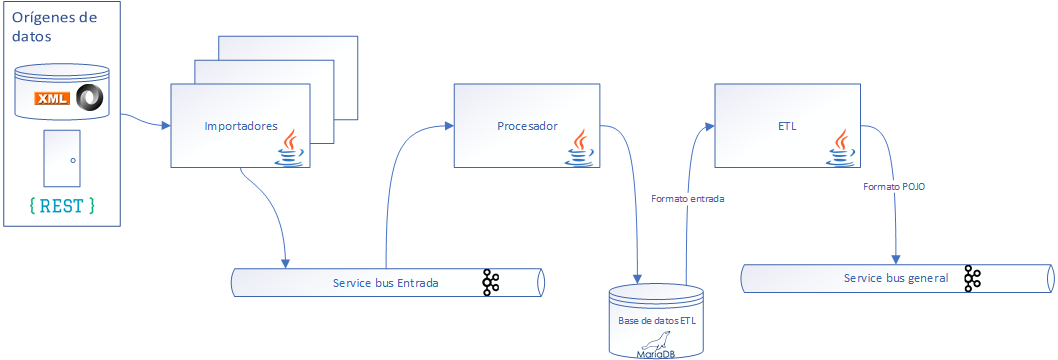
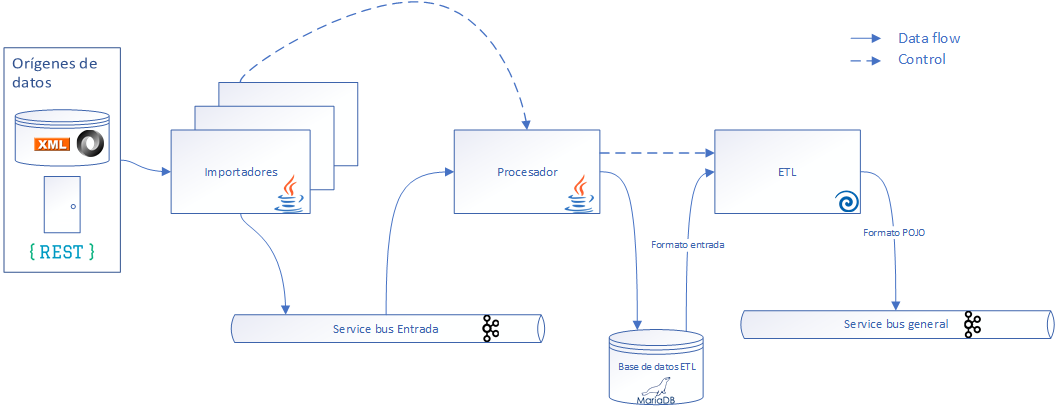
Actualización documento arquitectura

diff --git a/arquitectura_semantica/documento_arquitectura/anexos/anexo-ASIO_Izertis_Arquitectura_hito1.md b/arquitectura_semantica/documento_arquitectura/anexos/anexo-ASIO_Izertis_Arquitectura_hito1.md
@@ -1,0 +1,62 @@
+![](../images/logos_feder.png)
+
+# Anexo - Arquitectura hito 1
+
+En el presente documento se hará una comparativa entre la arquitectura planificada y la arquitectura implementada para este primer hito. Se hará un repaso por los diferentes bloques.
+
+## Arquitectura backend
+
+La arquitectura del backend se mantiene en lineas generales con la planificada.
+
+![Arquitectura backend alto nivel](./images/backend.png)
+
+Haciendo un repaso, los pasos que se seguiría serían los siguientes:
+
+1. Existen n importadores de datos, uno por cada origen de datos, estos importadores se encargarán de leer la información del lugar en el que se encuentran los datos e insertarla en el sistema
+2. La información pasará al topic de Kafka denominado *service bus general* para que sea procesada mediante una técnica de streaming
+3. El sistema de gestión se encargará de procesar la información, transformarla en RDF y enviarla a la gestión de eventos
+4. La gestión de eventos será la responsable de enviar los datos a aquellos sistemas de persistencia que se hayan seleccionado, inicialmente Trellis y Wikbase
+
+Como se comentaba anteriormente, esta arquitectura se sigue manteniendo.
+
+## Arquitectura entrada de datos
+
+La entrada de datos se mantiene en líneas generales pero se han hecho pequeños ajustes de cara a este primer hito.
+
+![Arquitectura entrada de datos planifiada](./images/input.png)
+
+En la planificación se había establecido el siguiente flujo:
+
+1. Los importadores se encargarán de leer los datos el origen e inserarlo en el topic de Kafka denominado "Service bus de entrada"
+    * Harán uso de un endpoint del procesador para obtener la fecha de la última carga para saber desde qué momento de tiempo es preciso obtener los datos
+2. El procesador se encargará de obtener la información del topic de Kafka mencionado en el punto anterior e insertarlo en una base de datos intermedia
+3. Una vez terminada la importación, el procesador avisará al proceso ETL para que comience con la transformación
+4. El proceso de ETL insertará los datos en formato POJO en el topic de Kafka "Service bus general"
+
+De cara a este primer hito se han llevado a cabo unos ajustes que se pueden ver en el siguiente gráfico:
+
+![Arquitectura entrada de datos hito 1](./images/hito1/input.png)
+
+Como primer punto se han definido los importadores que estan disponibles para este hito:
+
+- Importador de CVN: obtiene los datos mediante la invocación de servicios REST
+- Importador de dataset: obtiene los datos de los XML proporcionados
+
+También se ha añadido en el procesador, que además de enviar la información a la base de datos intermedia, se envíe directamente a un topic gemelo del "Service bus general" para que los datos de entrada sean procesados también como RDF y así añadir más información al sistema.
+
+## Arquitectura Gestión de eventos
+
+En cuanto a la gestión de eventos también se han realizado pequeños ajustes en la misma línea que para la entrada de datos.
+
+![Arquitectura gestión de eventos](./images/event-management.png)
+
+Recordando la arquitectura planificada, el flujo sería el siguiente:
+
+1. El sistema de gestión se encuentra consumiendo los eventos del topic "Service bus general"
+2. Se hace uso de la librería de descubrimiento y generador de URIs para generar el RDF y se envía al topic "Service bus de gestión"
+3. El procesador de eventos consumirá este último topic y delegará en un storage adapter la inserción de los datos en la capa de persistencia correspondiente. Existirá un conjunto de procesador de eventos y storage adapter por cada uno de los sistemas de almacenamiento que existan
+4. El storage adapter hará uso de la factoría de URIs para poder adaptar correctamente los datos
+
+Los cambios introducidos radican en que se introduce un nuevo topic gemelo del "service bus general" para enviar los datos de la entrada y que se pueda generar el RDF de los mismos.
+
+![Arquitectura gestión de eventos](./images/hito1/event-management.png)

diff --git a/arquitectura_semantica/documento_arquitectura/ASIO_Izertis_Arquitectura.md b/arquitectura_semantica/documento_arquitectura/ASIO_Izertis_Arquitectura.md
@@ -188,6 +188,7 @@ Por ejemplo, en el caso de una fuentes de datos vía FTP, el importador correspo
 
 - **Input:** Fuentes de datos externas
 - **Output:** Evento publicado en Service Bus interno (topic de Kafka) del módulo de entrada
+- **Control:** Llamada al API del procesador de datos para conocer la fecha de la última importación
 
 #### Procesador de datos
 
@@ -205,13 +206,16 @@ La base de datos elegida es una base de datos NoSQL, en concreto MongoDB, la cua
 **Implementación:** 
 
 * **Input:** Evento recibido desde el service bus interno del módulo de entrada
-* **Output:** Datos introducidos en formato de entrada en la base de datos intermedia del módulo de entrada
+* **Output:** Datos introducidos en formato de entrada en la base de datos intermedia del módulo de entrada. Adicionalmente para el primer hito se enviarán los datos también al Service Bus General para que sean tratados como POJOs.
+* **Control:** Llamada a API del ETL para indicar el comienzo de la transformación de datos
 
 ##### ETL
 
 Una vez se hayan cargado todos los datos de una de las fuentes, el módulo ETL será el encargado de leer los datos de la base de datos intermedia y transformarlos en la estructura de datos definida por la ontología (POJOs).
 
 **Implementación:** 
+
+Para la implementación de la ETL se utilizará Pentaho Data Integration el cual es un software que facilita la extracción, transformación y carga de datos, y por tanto indicado para hacer la transformación de los datos de entrada al formato "POJO".
 
 - **Input:** Datos procedentes de la base de datos intermedia en formato del módulo de entrada
 - **Output:** Evento publicado en Service Bus general, en formato POJO
@@ -259,6 +263,8 @@ Cada uno de los procesadores de eventos se encargarán de consumir los mensajes 
 #### Storage adapters
 
 En lugar de añadir la lógica correspondiente a un sistema de almacenamiento, se utilizará un adaptador el cual dispondrá de toda la lógica necesaria para interactuar con el triplestore. Esto permite que en caso que se quiera cambiar de sistema de almacenamiento, solo con cambiar este adaptador es suficiente para poder trabajar con este nueva capa de persistencia.
+
+Estos adaptadores se encargarán también de transformar el RDF recibido para que concuerde con el sistema final, como por ejemplo las URIs, para lo cual se apoyará en la factoría de URIs.
 
 Dentro del transcurso del proyecto se desarrollará un adaptador para la ingesta de datos en el sistema [Trellis](https://www.trellisldp.org/), así como en [Wikibase](https://www.mediawiki.org/wiki/Wikibase/es), aunque no sería descartable generar otros adaptadores en caso que sea necesario.
 
